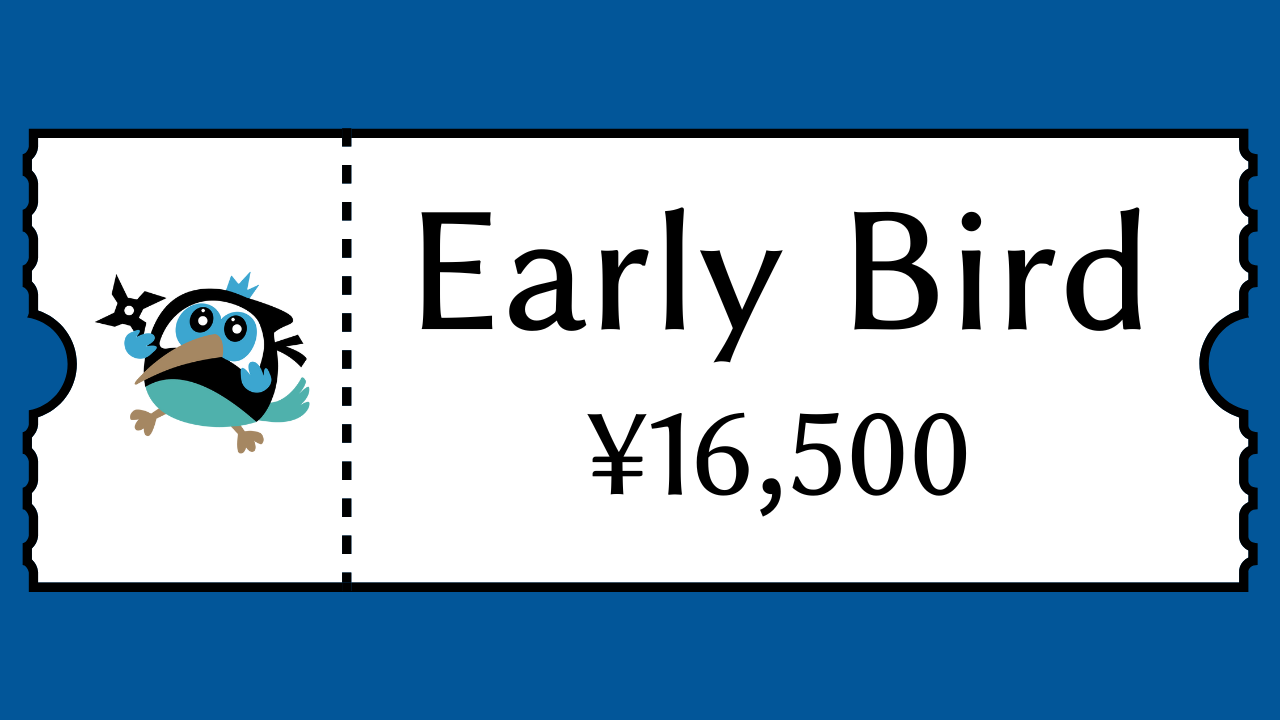
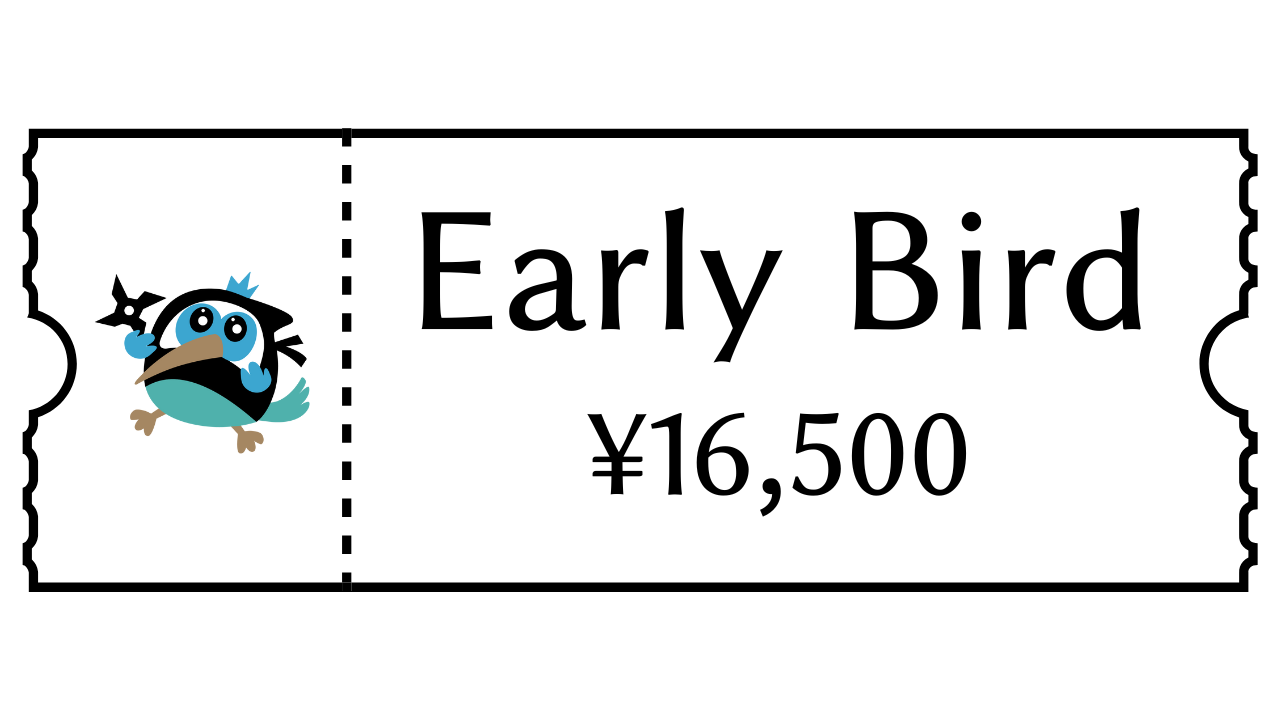
gradationを設置

diff --git a/lib/presentation/lp_header_appbar.dart b/lib/presentation/lp_header_appbar.dart
@@ -1,4 +1,5 @@
 import 'package:flutter/material.dart';
+import 'package:new_gradient_app_bar/new_gradient_app_bar.dart';
 import 'package:url_launcher/url_launcher_string.dart';
 
 import '../config/app_color.dart';
@@ -10,8 +11,13 @@ class HeaderAppBar extends StatelessWidget implements PreferredSizeWidget {
 
   @override
   Widget build(BuildContext context) {
-    return AppBar(
-      backgroundColor: AppColor.backgroundNavy,
+    return NewGradientAppBar(
+      gradient: const LinearGradient(
+        colors: [
+          AppColor.backgroundNavy,
+          Colors.black,
+        ],
+      ),
       centerTitle: false,
       title: Padding(
         padding: const EdgeInsets.all(16),
@@ -33,15 +39,15 @@ class HeaderAppBar extends StatelessWidget implements PreferredSizeWidget {
                   ),
             ),
             const Spacer(),
-            ElevatedButton(
-              style: ElevatedButton.styleFrom(
-                backgroundColor: AppColor.ninjaBlack,
-              ),
+            TextButton(
               onPressed: () {
                 launchUrlString('https://ti.to/flutterninjas/tokyo-2025');
               },
               child: const Text(
                 'Buy Ticket',
+                style: TextStyle(
+                  color: Colors.white,
+                ),
               ),
             ),
           ],

diff --git a/lib/presentation/2024/lp_base_container_2024.dart b/lib/presentation/2024/lp_base_container_2024.dart
@@ -1,9 +1,9 @@
 import 'package:flutter/material.dart';
 
-import '../config/app_color.dart';
+import '../../config/app_color.dart';
 
-class LPBaseContainer extends StatelessWidget {
-  const LPBaseContainer({
+class LPBase2024Container extends StatelessWidget {
+  const LPBase2024Container({
     super.key,
     required this.child,
     required this.isMobile,
@@ -24,14 +24,6 @@ class LPBaseContainer extends StatelessWidget {
   Widget build(BuildContext context) {
     return Container(
       decoration: BoxDecoration(
-        gradient: const LinearGradient(
-          begin: Alignment.centerLeft,
-          end: Alignment.centerRight,
-          colors: <Color>[
-            AppColor.backgroundNavy,
-            Colors.black,
-          ],
-        ),
         color: color ?? AppColor.backgroundNavy,
         image: backgroundImageName != null
             ? DecorationImage(

diff --git a/lib/presentation/lp_top_widget.dart b/lib/presentation/lp_top_widget.dart
@@ -2,7 +2,6 @@ import 'package:flutter/material.dart';
 import 'package:provider/provider.dart';
 import 'package:responsive_builder/responsive_builder.dart';
 
-import '../../../config/app_color.dart';
 import 'lp_base_container.dart';
 import 'lp_model.dart';
 
@@ -15,13 +14,12 @@ class TopWidget extends StatelessWidget {
     final isMobile = deviceType == DeviceScreenType.mobile;
 
     return LPBaseContainer(
-      color: AppColor.backgroundNavy,
       isMobile: isMobile,
       padding: const EdgeInsets.symmetric(
         vertical: 0,
       ),
       child: Image.asset(
-        'resources/images/FlutterNinjas-header-1.png',
+        'resources/images/FlutterNinjas-header-2025-transparent.png',
         fit: BoxFit.cover,
       ),
     );

diff --git a/lib/presentation/2024/lp_organizers_widget.dart b/lib/presentation/2024/lp_organizers_widget.dart
@@ -3,8 +3,8 @@ import 'package:provider/provider.dart';
 import 'package:url_launcher/link.dart';
 
 import '../../domain/organizer_type.dart';
-import '../lp_base_container.dart';
 import 'lp_2024_model.dart';
+import 'lp_base_container_2024.dart';
 
 class Organizers2024Widget extends StatelessWidget {
   const Organizers2024Widget({super.key});
@@ -13,7 +13,7 @@ class Organizers2024Widget extends StatelessWidget {
   Widget build(BuildContext context) {
     final isMobile = context.watch<LP2024Model>().isMobile;
 
-    return LPBaseContainer(
+    return LPBase2024Container(
       isMobile: isMobile,
       child: Column(
         crossAxisAlignment: CrossAxisAlignment.center,

diff --git a/lib/presentation/2024/lp_speakers_widget.dart b/lib/presentation/2024/lp_speakers_widget.dart
@@ -3,8 +3,8 @@ import 'package:provider/provider.dart';
 import 'package:url_launcher/link.dart';
 
 import '../../domain/speaker_type.dart';
-import '../lp_base_container.dart';
 import 'lp_2024_model.dart';
+import 'lp_base_container_2024.dart';
 
 class Speakers2024Widget extends StatelessWidget {
   const Speakers2024Widget({super.key});
@@ -13,7 +13,7 @@ class Speakers2024Widget extends StatelessWidget {
   Widget build(BuildContext context) {
     final isMobile = context.watch<LP2024Model>().isMobile;
 
-    return LPBaseContainer(
+    return LPBase2024Container(
       isMobile: isMobile,
       child: Column(
         crossAxisAlignment: CrossAxisAlignment.center,

diff --git a/lib/presentation/2024/lp_top_widget.dart b/lib/presentation/2024/lp_top_widget.dart
@@ -2,8 +2,8 @@ import 'package:flutter/material.dart';
 import 'package:provider/provider.dart';
 
 import '../../../config/app_color.dart';
-import '../lp_base_container.dart';
 import 'lp_2024_model.dart';
+import 'lp_base_container_2024.dart';
 
 class Top2024Widget extends StatelessWidget {
   const Top2024Widget({super.key});
@@ -12,7 +12,7 @@ class Top2024Widget extends StatelessWidget {
   Widget build(BuildContext context) {
     final isMobile = context.watch<LP2024Model>().isMobile;
 
-    return LPBaseContainer(
+    return LPBase2024Container(
       color: AppColor.backgroundNavy,
       isMobile: isMobile,
       padding: const EdgeInsets.symmetric(

diff --git a/lib/presentation/2024/lp_schedule_widget.dart b/lib/presentation/2024/lp_schedule_widget.dart
@@ -4,15 +4,15 @@ import 'package:flutterninjas/domain/speaker_type.dart';
 import 'package:provider/provider.dart';
 import 'package:url_launcher/url_launcher_string.dart';
 
-import '../lp_base_container.dart';
 import 'lp_2024_model.dart';
+import 'lp_base_container_2024.dart';
 
 class Schedule2024Widget extends StatelessWidget {
   const Schedule2024Widget({super.key});
   @override
   Widget build(BuildContext context) {
     final isMobile = context.watch<LP2024Model>().isMobile;
-    return LPBaseContainer(
+    return LPBase2024Container(
       isMobile: isMobile,
       child: Column(
         crossAxisAlignment: CrossAxisAlignment.center,

diff --git a/lib/presentation/2024/lp_outline_widget.dart b/lib/presentation/2024/lp_outline_widget.dart
@@ -2,16 +2,16 @@ import 'package:flutter/material.dart';
 import 'package:provider/provider.dart';
 
 import '../../../../config/app_color.dart';
-import '../lp_base_container.dart';
 import '../lp_model.dart';
 import 'lp_2024_model.dart';
+import 'lp_base_container_2024.dart';
 
 class Outline2024Widget extends StatelessWidget {
   const Outline2024Widget({super.key});
   @override
   Widget build(BuildContext context) {
     final isMobile = context.watch<LP2024Model>().isMobile;
-    return LPBaseContainer(
+    return LPBase2024Container(
       isMobile: isMobile,
       padding: isMobile
           ? const EdgeInsets.symmetric(

diff --git a/lib/presentation/2024/lp_sponsors_widget.dart b/lib/presentation/2024/lp_sponsors_widget.dart
@@ -4,15 +4,15 @@ import 'package:provider/provider.dart';
 import 'package:url_launcher/url_launcher_string.dart';
 
 import '../../config/app_color.dart';
-import '../lp_base_container.dart';
 import 'lp_2024_model.dart';
+import 'lp_base_container_2024.dart';
 
 class Sponsors2024Widget extends StatelessWidget {
   const Sponsors2024Widget({super.key});
   @override
   Widget build(BuildContext context) {
     final isMobile = context.watch<LP2024Model>().isMobile;
-    return LPBaseContainer(
+    return LPBase2024Container(
       isMobile: isMobile,
       child: Column(
         crossAxisAlignment: CrossAxisAlignment.center,

diff --git a/lib/presentation/2024/lp_tickets_widget.dart b/lib/presentation/2024/lp_tickets_widget.dart
@@ -3,15 +3,15 @@ import 'package:provider/provider.dart';
 import 'package:url_launcher/url_launcher_string.dart';
 
 import '../../config/app_color.dart';
-import '../lp_base_container.dart';
 import 'lp_2024_model.dart';
+import 'lp_base_container_2024.dart';
 
 class Tickets2024Widget extends StatelessWidget {
   const Tickets2024Widget({super.key});
   @override
   Widget build(BuildContext context) {
     final isMobile = context.watch<LP2024Model>().isMobile;
-    return LPBaseContainer(
+    return LPBase2024Container(
       isMobile: isMobile,
       child: Column(
         crossAxisAlignment: CrossAxisAlignment.center,

diff --git a/lib/presentation/2024/lp_venue_widget.dart b/lib/presentation/2024/lp_venue_widget.dart
@@ -2,15 +2,15 @@ import 'package:flutter/material.dart';
 import 'package:provider/provider.dart';
 import 'package:url_launcher/url_launcher_string.dart';
 
-import '../lp_base_container.dart';
 import 'lp_2024_model.dart';
+import 'lp_base_container_2024.dart';
 
 class Venue2024Widget extends StatelessWidget {
   const Venue2024Widget({super.key});
   @override
   Widget build(BuildContext context) {
     final isMobile = context.watch<LP2024Model>().isMobile;
-    return LPBaseContainer(
+    return LPBase2024Container(
       isMobile: isMobile,
       child: Column(
         crossAxisAlignment: CrossAxisAlignment.center,

diff --git a/lib/presentation/2024/lp_qa_widget.dart b/lib/presentation/2024/lp_qa_widget.dart
@@ -2,15 +2,15 @@ import 'package:flutter/material.dart';
 import 'package:flutterninjas/domain/qa_type.dart';
 import 'package:provider/provider.dart';
 
-import '../lp_base_container.dart';
 import 'lp_2024_model.dart';
+import 'lp_base_container_2024.dart';
 
 class QA2024Widget extends StatelessWidget {
   const QA2024Widget({super.key});
   @override
   Widget build(BuildContext context) {
     final isMobile = context.watch<LP2024Model>().isMobile;
-    return LPBaseContainer(
+    return LPBase2024Container(
       isMobile: isMobile,
       child: Column(
         crossAxisAlignment: CrossAxisAlignment.center,
